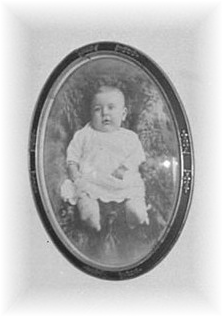
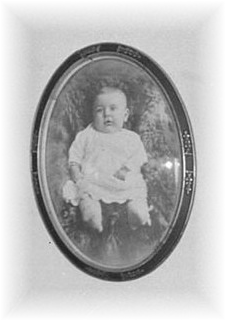
Find the framed pictures the vision model missed (SAM 3 'framed photograph' pass)
- Frames not already covered become photo layers (behind people too), >=0.6 confidence,
  within the flat-layer budget; the 1946 room goes from 3 to 8 flat layers

diff --git a/lib/pipeline/extras.ts b/lib/pipeline/extras.ts
@@ -74,6 +74,8 @@ export interface Extras {
   layers?: LayerState[] | null;
   /** Jev's per-object calls, when it made them (kept for transparency and debugging). */
   decisions?: ObjectDecision[];
+  /** Whether the photo has been searched for framed pictures the vision model missed. */
+  framesSearched?: boolean;
   createdAt: string;
 }
 
@@ -100,6 +102,8 @@ export interface ExtrasDeps {
   judge?: Judge | null;
   /** Crops the photo to a box (with padding) and returns image bytes. */
   crop: (photoUrl: string, bbox: BoundingBox) => Promise<Uint8Array<ArrayBuffer>>;
+  /** Finds framed photographs/pictures in the photo (boxes with confidence). */
+  findFrames?: (photoUrl: string) => Promise<{ box: BoundingBox; score: number }[]>;
   /** Cuts a photo layer out of the photograph as a transparent PNG. */
   cutout?: (
     photoUrl: string,
@@ -180,6 +184,14 @@ export async function advanceExtras(jobId: string, deps: ExtrasDeps): Promise<Ex
     }
     if (x.analysis.state !== "pending" && x.layers == null) {
       x.layers = x.analysis.result ? planLayers(x.analysis.result, x.decisions) : [];
+      await save();
+    }
+
+    // 2b. Framed pictures the vision model didn't list (small ones on the walls, mostly).
+    if (x.layers && !x.framesSearched && x.photoUrl && deps.findFrames) {
+      const found = await deps.findFrames(x.photoUrl).catch(() => []);
+      x.layers.push(...extraFrames(found, x.layers, x.objects ?? []));
+      x.framesSearched = true;
       await save();
     }
 
@@ -284,6 +296,49 @@ export function planLayers(analysis: MemoryAnalysis, decisions?: ObjectDecision[
       }),
     );
   return [...people, ...flat];
+}
+
+const MIN_FRAME_SCORE = 0.6;
+const MIN_FRAME_AREA = 0.0006;
+const MAX_FRAME_AREA = 0.1;
+
+/** New flat layers for frames that nothing else covers yet, within the layer budget. */
+export function extraFrames(
+  found: { box: BoundingBox; score: number }[],
+  layers: LayerState[],
+  objects: HeroObjectState[],
+): LayerState[] {
+  // Not people's boxes: a portrait on the wall behind someone is still its own layer.
+  const taken = [
+    ...layers.filter((l) => l.kind === "flat").map((l) => l.bbox),
+    ...objects.map((o) => o.bbox),
+  ];
+  let room = LAYER_BUDGET.flat - layers.filter((l) => l.kind === "flat").length;
+  const added: LayerState[] = [];
+  for (const { box, score } of [...found].sort((a, b) => b.score - a.score)) {
+    if (room <= 0) break;
+    const area = (box[2] - box[0]) * (box[3] - box[1]);
+    if (score < MIN_FRAME_SCORE || area < MIN_FRAME_AREA || area > MAX_FRAME_AREA) continue;
+    if (taken.some((t) => overlap(t, box) > 0.3)) continue;
+    taken.push(box);
+    added.push({
+      id: `layer-frame-${added.length + 1}`,
+      kind: "flat",
+      label: "framed photograph",
+      bbox: box,
+      state: "pending",
+    });
+    room--;
+  }
+  return added;
+}
+
+/** Share of the smaller box covered by the other (catches a frame inside a person's box). */
+function overlap(a: BoundingBox, b: BoundingBox): number {
+  const ix = Math.max(0, Math.min(a[2], b[2]) - Math.max(a[0], b[0]));
+  const iy = Math.max(0, Math.min(a[3], b[3]) - Math.max(a[1], b[1]));
+  const smaller = Math.min((a[2] - a[0]) * (a[3] - a[1]), (b[2] - b[0]) * (b[3] - b[1]));
+  return smaller > 0 ? (ix * iy) / smaller : 0;
 }
 
 async function advanceLayer(l: LayerState, photoUrl: string | null, deps: ExtrasDeps) {

diff --git a/tests/unit/jev.test.ts b/tests/unit/jev.test.ts
@@ -146,3 +146,35 @@ describe("gallery hold", () => {
     expect(await galleryCards(store)).toHaveLength(1);
   });
 });
+
+describe("extra frames", () => {
+  it("adds frames nothing covers yet, including ones behind a person, within budget", async () => {
+    const { extraFrames } = await import("@/lib/pipeline/extras");
+    const layers = [
+      {
+        id: "layer-person",
+        kind: "person" as const,
+        label: "person",
+        bbox: [0.2, 0.3, 0.4, 0.8] as const,
+        state: "done" as const,
+      },
+      {
+        id: "layer-oval",
+        kind: "flat" as const,
+        label: "oval",
+        bbox: [0.7, 0.1, 0.8, 0.3] as const,
+        state: "done" as const,
+      },
+    ];
+    const found = [
+      { box: [0.71, 0.12, 0.8, 0.31] as const, score: 0.97 }, // the oval again
+      { box: [0.24, 0.37, 0.27, 0.43] as const, score: 0.84 }, // behind the person: keep
+      { box: [0.9, 0.1, 0.95, 0.2] as const, score: 0.95 },
+      { box: [0.5, 0.5, 0.52, 0.52] as const, score: 0.4 }, // unsure
+    ];
+    expect(extraFrames(found, layers, []).map((l) => l.bbox)).toEqual([
+      [0.9, 0.1, 0.95, 0.2],
+      [0.24, 0.37, 0.27, 0.43],
+    ]);
+  });
+});

diff --git a/lib/ai/providers/real/fal.ts b/lib/ai/providers/real/fal.ts
@@ -214,6 +214,27 @@ export async function removeBackground(fal: FalClient, imageUrl: string): Promis
   return out.image.url;
 }
 
+/** Every framed photograph or picture SAM 3 can find in the photo. */
+export async function findFrames(fal: FalClient, photoUrl: string) {
+  const out = await fal.run<{ metadata?: { score: number; box: number[] }[] | null }>(
+    "fal-ai/sam-3/image",
+    {
+      image_url: photoUrl,
+      prompt: "framed photograph",
+      apply_mask: false,
+      include_boxes: true,
+      include_scores: true,
+      return_multiple_masks: true,
+      max_masks: 12,
+      output_format: "png",
+    },
+  );
+  return (out.metadata ?? []).map(({ score, box: [cx, cy, w, h] }) => ({
+    score,
+    box: [cx - w / 2, cy - h / 2, cx + w / 2, cy + h / 2] as BoundingBox,
+  }));
+}
+
 /** SAM 3 below this confidence may have picked the wrong thing: use generic removal. */
 const MIN_CUTOUT_SCORE = 0.3;
 

diff --git a/scripts/extras.ts b/scripts/extras.ts
@@ -10,6 +10,7 @@ import {
   FalSegmentProvider,
   FalStorage,
   FalVisionProvider,
+  findFrames,
   isMeshModel,
 } from "../lib/ai/providers/real/fal";
 import { GeminiVisionProvider } from "../lib/ai/providers/real/gemini";
@@ -54,6 +55,7 @@ const deps = {
   storage,
   crop: cropToBox,
   optimizeMesh: optimizeRemoteGlb,
+  findFrames: (photoUrl: string) => findFrames(fal, photoUrl),
   cutout: (
     photoUrl: string,
     layer: { kind: string; bbox: readonly [number, number, number, number] },
@@ -73,6 +75,7 @@ if (!existing) {
   if (process.argv.includes("--layers")) {
     existing.analysis = { state: "done", result: await deps.vision.analyze(entry.photoUrl) };
     existing.layers = null;
+    existing.framesSearched = false;
   }
   for (const o of existing.objects ?? []) {
     if (o.state === "failed")

diff --git a/lib/ai/extras.ts b/lib/ai/extras.ts
@@ -19,6 +19,7 @@ import {
   FalSegmentProvider,
   FalStorage,
   FalVisionProvider,
+  findFrames,
   isMeshModel,
 } from "./providers/real/fal";
 import { GeminiVisionProvider } from "./providers/real/gemini";
@@ -58,6 +59,7 @@ export function getExtrasDeps(): ExtrasDeps {
     judge: process.env.TYPESAFE_API_KEY ? new JevJudge(process.env.TYPESAFE_API_KEY) : null,
     crop: cropToBox,
     optimizeMesh: optimizeRemoteGlb,
+    findFrames: fal ? (photoUrl) => findFrames(fal, photoUrl) : undefined,
     cutout: fal
       ? (photoUrl, layer) =>
           layer.kind === "person"
